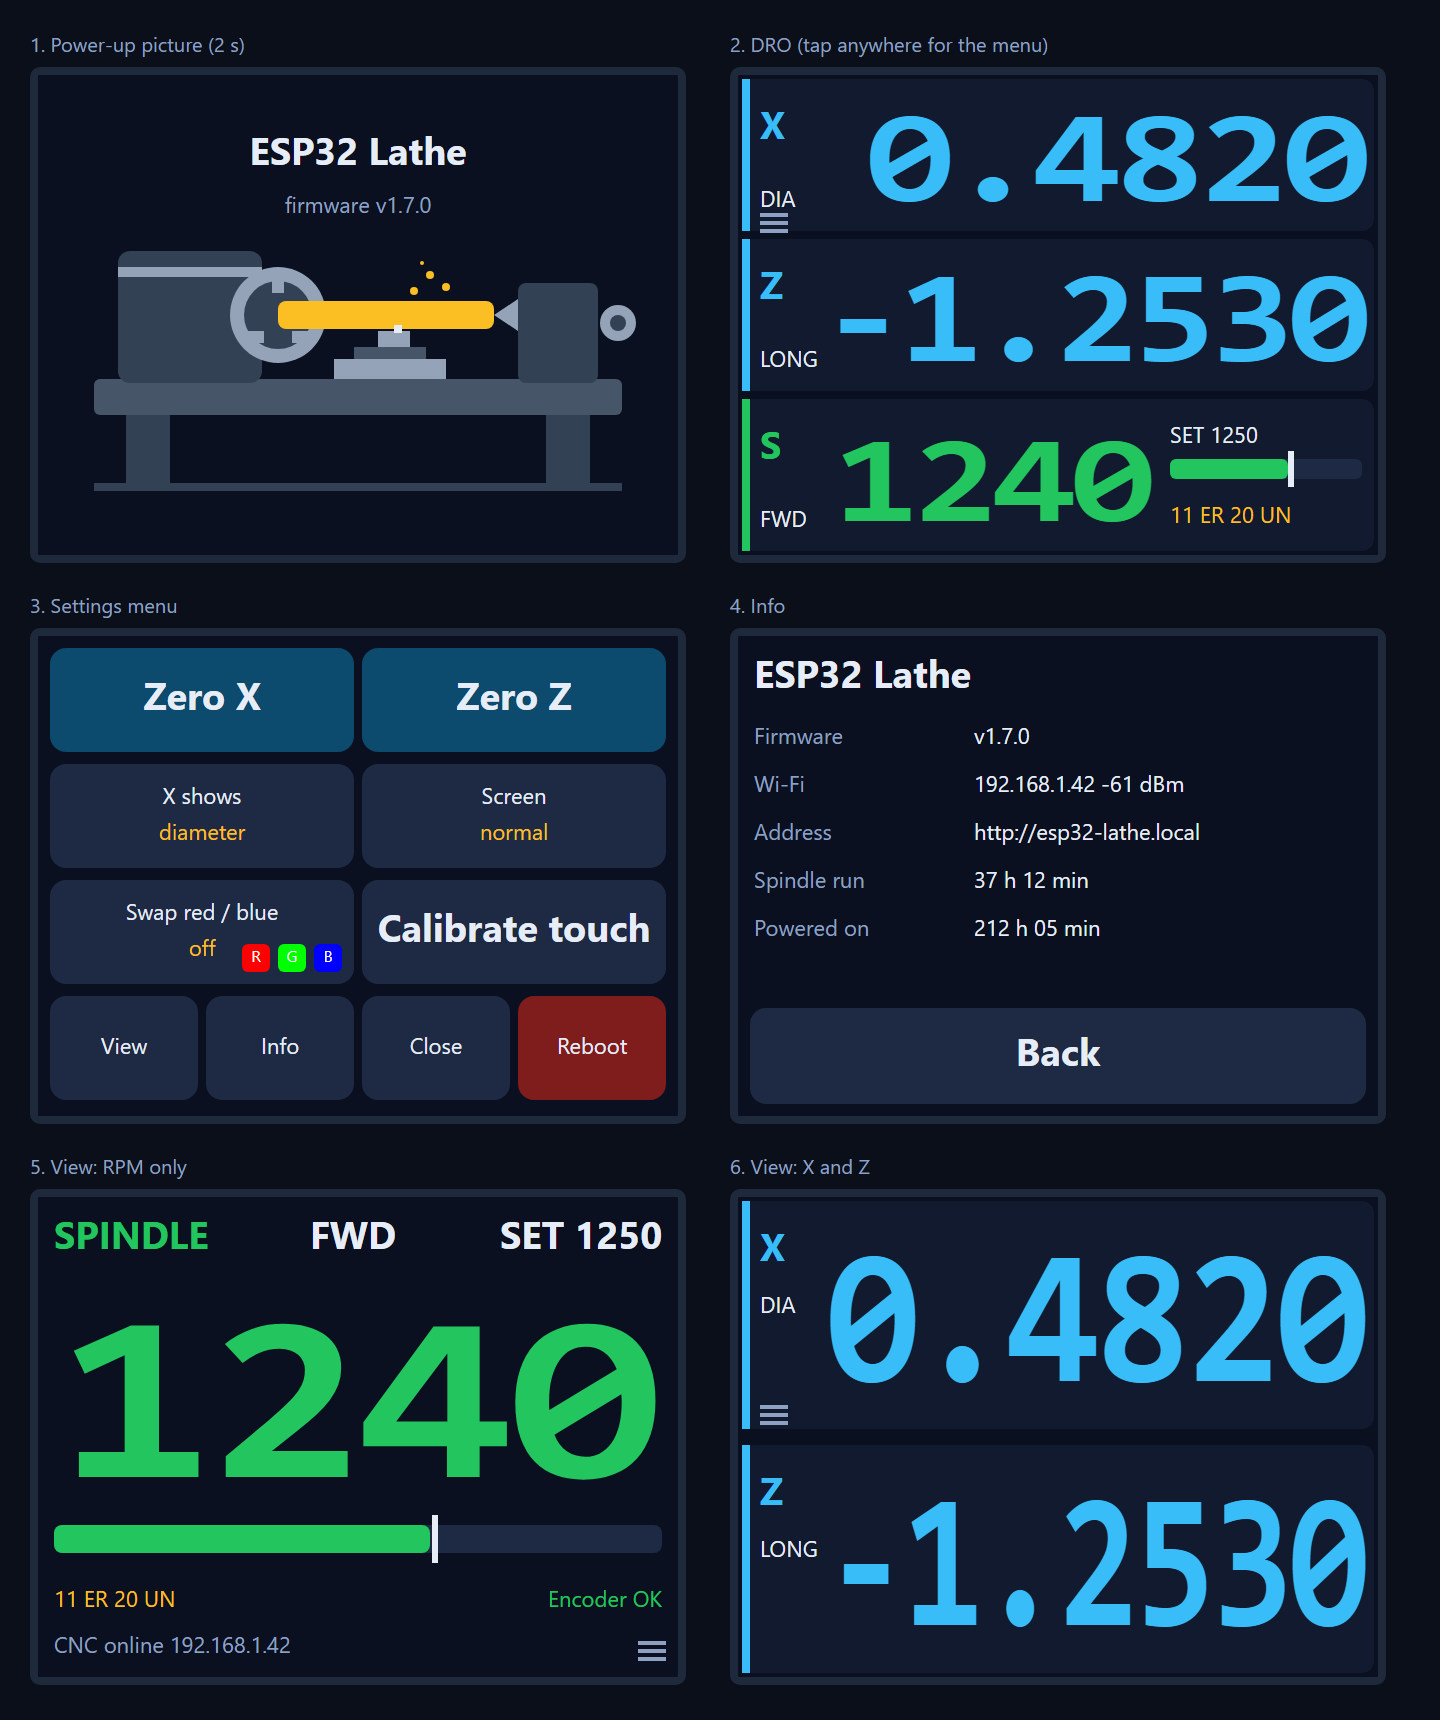
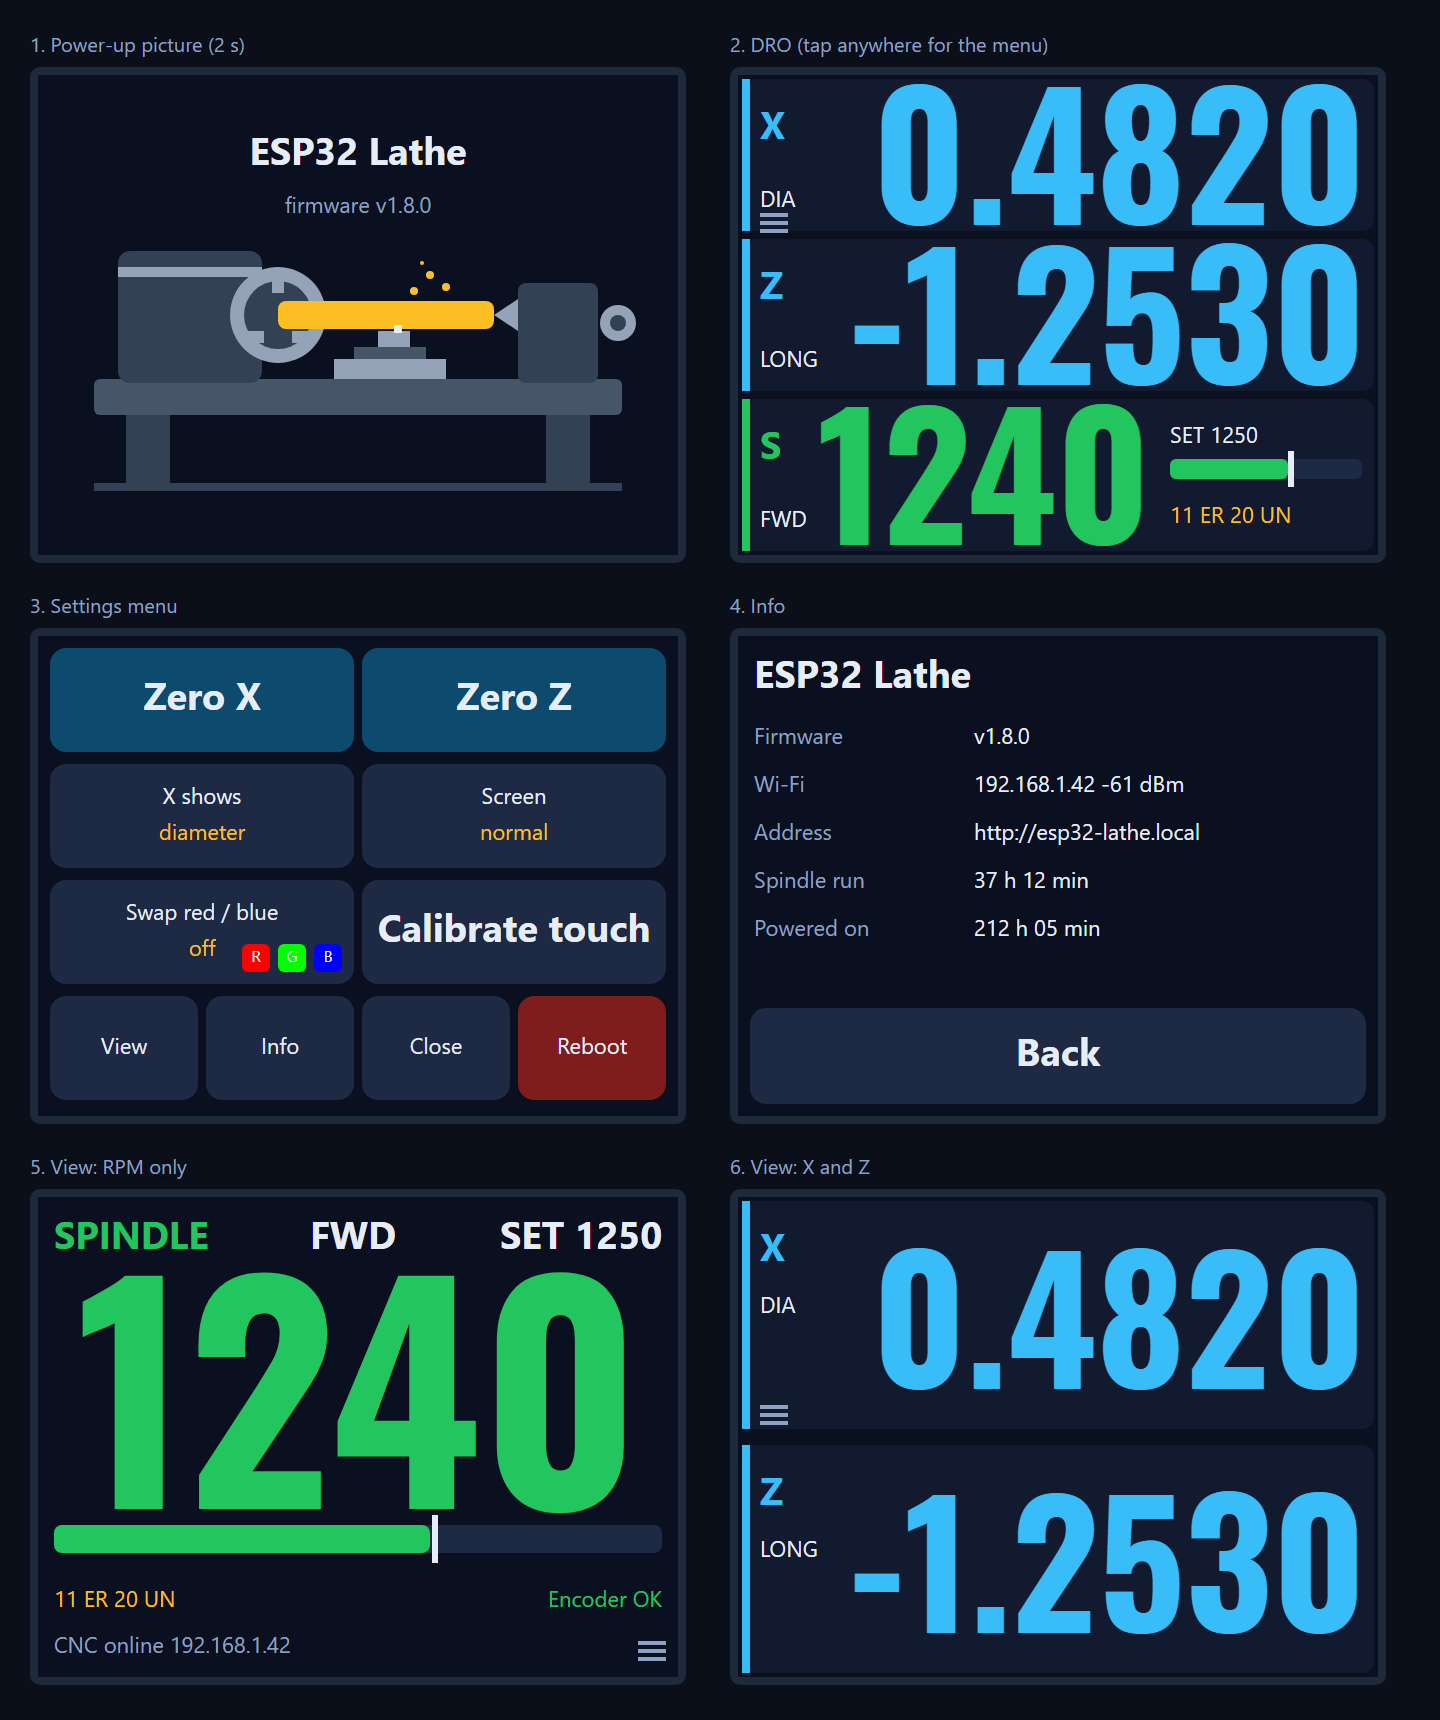
Firmware 1.8.0: anti-aliased Oswald digits on the display

diff --git a/src/main.cpp b/src/main.cpp
@@ -391,12 +391,40 @@ const float DISP_MAX_SCALE = 1.5f;
 // (which flickers a little, but still shows the numbers).
 lgfx::LovyanGFX *g = &frame;
 volatile bool dispSaveReq = false;     // the on-screen menu changed a setting: loop() writes it to flash
-void drawBigNumber(const char *txt, int right, int y, int maxW, uint32_t col) {
+
+// Smooth digits. The built-in seven-segment font scaled up 1.5x looked blocky, so the numbers now use
+// anti-aliased 0-9 . - glyphs from Oswald Bold (SIL Open Font License, see fonts/OFL.txt) in three sizes:
+// 120, 70 and 57 px digits. tools/make_vlw.py makes the fonts/*.vlw files from the TTF; platformio.ini's
+// board_build.embed_files links them into the firmware, and they are read straight from flash.
+extern const uint8_t vlw_big_start[] asm("_binary_fonts_d_big_vlw_start"), vlw_big_end[] asm("_binary_fonts_d_big_vlw_end");
+extern const uint8_t vlw_mid_start[] asm("_binary_fonts_d_mid_vlw_start"), vlw_mid_end[] asm("_binary_fonts_d_mid_vlw_end");
+extern const uint8_t vlw_small_start[] asm("_binary_fonts_d_small_vlw_start"), vlw_small_end[] asm("_binary_fonts_d_small_vlw_end");
+lgfx::VLWfont digitFont[3];
+lgfx::PointerWrapper digitData[3];
+bool digitFontsOk = false;
+void loadDigitFonts() {
+  const uint8_t *s[3] = {vlw_big_start, vlw_mid_start, vlw_small_start}, *e[3] = {vlw_big_end, vlw_mid_end, vlw_small_end};
+  digitFontsOk = true;
+  for (int i = 0; i < 3; i++) { digitData[i].set(s[i], e[i] - s[i]); if (!digitFont[i].loadFont(&digitData[i])) digitFontsOk = false; }
+  Serial.printf("display: digit fonts %s\n", digitFontsOk ? "loaded" : "failed, using the bitmap font");
+}
+// Draws a number as large as fits: the biggest smooth font no taller than maxH whose width fits maxW. The
+// background colour is needed for the anti-aliased edges. Falls back to the scaled bitmap font if the smooth
+// fonts did not load.
+void drawNumber(const char *txt, int x, int y, int maxW, int maxH, textdatum_t datum, uint32_t col, uint32_t bg) {
+  g->setTextDatum(datum);
+  if (digitFontsOk) {
+    int pick = 2;
+    for (int i = 0; i < 3; i++) { g->setFont(&digitFont[i]); if (g->fontHeight() <= maxH && g->textWidth(txt) <= maxW) { pick = i; break; } }
+    g->setFont(&digitFont[pick]); g->setTextColor(col, bg); g->drawString(txt, x, y); g->setTextColor(col);
+    return;
+  }
   g->setFont(&fonts::Font7); g->setTextSize(1);
-  float s = min(DISP_MAX_SCALE, (float)maxW / max(1, (int)g->textWidth(txt)));
-  g->setTextSize(s); g->setTextColor(col); g->setTextDatum(middle_right);
-  g->drawString(txt, right, y + DISP_ROW_H / 2);
-  g->setTextSize(1);
+  float sc = min((float)maxH / 48.0f, (float)maxW / max(1, (int)g->textWidth(txt)));
+  g->setTextSize(sc); g->setTextColor(col); g->drawString(txt, x, y); g->setTextSize(1);
+}
+void drawBigNumber(const char *txt, int right, int y, int maxW, uint32_t col) {
+  drawNumber(txt, right, y + DISP_ROW_H / 2, maxW, DISP_ROW_H - 8, middle_right, col, 0x111a2e);
 }
 // The sub label (DIA, LONG, FWD) is near white: it stays readable whatever the panel's colour order.
 void drawRowLabel(int y, const char *name, const char *sub, uint32_t col) {
@@ -545,9 +573,7 @@ void drawInfo(const DispSnap &s) {
 // ---------------- single-value views ----------------
 // A number in the seven-segment font, as large as maxW and maxScale allow, centred on (cx, cy).
 void bigCentered(const char *txt, int cx, int cy, int maxW, float maxScale, uint32_t col) {
-  g->setFont(&fonts::Font7); g->setTextSize(1);
-  float sc = min(maxScale, (float)maxW / max(1, (int)g->textWidth(txt)));
-  g->setTextSize(sc); g->setTextColor(col); g->setTextDatum(middle_center); g->drawString(txt, cx, cy); g->setTextSize(1);
+  drawNumber(txt, cx, cy, maxW, (int)(48 * maxScale), middle_center, col, 0x0a1020);
 }
 void menuMark(int x, int y) { for (int i = 0; i < 3; i++) g->fillRect(x, y + 4 * i, 14, 2, 0x8fa1c2); }
 const char *toolText(const DispSnap &s) { const char *t = strstr(s.tool, " + "); return t ? t + 3 : (s.tool[0] ? s.tool : "No tool"); }
@@ -602,9 +628,7 @@ void drawXZView(const DispSnap &s) {
     g->setTextDatum(top_left); g->setFont(&fonts::Font4); g->setTextColor(0x38bdf8); g->drawString(i ? "Z" : "X", 11, y + 12);
     g->setFont(&fonts::Font2); g->setTextColor(0xe6edf7); g->drawString(i ? "LONG" : (s.xDia ? "DIA" : "RAD"), 11, y + 44);
     char b[16]; snprintf(b, sizeof b, "%.4f", i ? s.z : s.x);
-    g->setFont(&fonts::Font7); g->setTextSize(1);
-    float sc = min(2.2f, 270.0f / max(1, (int)g->textWidth(b)));
-    g->setTextSize(sc); g->setTextColor(0x38bdf8); g->setTextDatum(middle_right); g->drawString(b, 314, y + rh / 2); g->setTextSize(1);
+    drawNumber(b, 314, y + rh / 2, 270, rh - 12, middle_right, 0x38bdf8, 0x111a2e);
   }
   menuMark(11, rh - 14);
 }
@@ -672,6 +696,7 @@ void drawSplash() {
 void displayTask(void *) {
   lcd.init(); bool flip = S.dispFlip; lcd.setRotation(flip ? 3 : 1);
   if (S.dispSwapRb) lcd.setColorSwap(true);
+  loadDigitFonts();
   drawSplash();
   vTaskDelay(pdMS_TO_TICKS(2000));
   // Frame buffer: 16-bit in PSRAM, else 8-bit in internal RAM, else none (draw straight to the panel).

diff --git a/tools/make_vlw.py b/tools/make_vlw.py
@@ -1,0 +1,82 @@
+"""Make anti-aliased digit fonts (0-9 . -) in VLW format for LovyanGFX, from a TrueType font.
+
+VLW layout (as LovyanGFX's VLWfont::loadFont reads it), all 32-bit big-endian:
+  header: glyph count, version, size, unused, ascent, descent
+  per glyph: unicode, height, width, x advance, dY (baseline to glyph top), dX, unused
+  then the 8-bit alpha bitmaps, one after another in glyph order.
+The font-level ascent is set to the digit height and descent to what hangs below the baseline, so a
+middle text datum centres the digits exactly.
+
+Usage: make_vlw.py <pylib> <font.ttf> <out dir> <preview.png>
+"""
+import sys, struct, os
+sys.path.insert(0, sys.argv[1])
+from PIL import Image, ImageDraw, ImageFont
+
+TTF, OUT, PREVIEW = sys.argv[2], sys.argv[3], sys.argv[4]
+CHARS = "0123456789.-"
+
+def measure(em):
+    f = ImageFont.truetype(TTF, em)
+    asc, desc = f.getmetrics()
+    g = {}
+    for ch in CHARS:
+        l, t, r, b = f.getbbox(ch)
+        g[ch] = dict(l=l, t=t, r=r, b=b, adv=f.getlength(ch))
+    digit_h = max(asc - g[c]['t'] for c in "0123456789")
+    return f, asc, g, digit_h
+
+def width(g, s): return sum(g[c]['adv'] for c in s)
+
+def fit(max_h, limits):
+    """Largest em whose digits are <= max_h tall and whose test strings fit their widths."""
+    best = None
+    for em in range(20, 260):
+        f, asc, g, dh = measure(em)
+        if dh > max_h or any(width(g, s) > w for s, w in limits): break
+        best = em
+    return best
+
+def write_vlw(em, path):
+    f, asc, g, dh = measure(em)
+    glyphs = []
+    for ch in CHARS:
+        m = g[ch]
+        w, h = m['r'] - m['l'], m['b'] - m['t']
+        im = Image.new('L', (w, h), 0)
+        ImageDraw.Draw(im).text((-m['l'], -m['t']), ch, font=f, fill=255)
+        glyphs.append((ord(ch), h, w, round(m['adv']), asc - m['t'], m['l'], im.tobytes()))
+    font_asc = max(gl[4] for gl in glyphs)
+    font_desc = max(0, max(gl[1] - gl[4] for gl in glyphs))
+    out = struct.pack('>6I', len(glyphs), 11, font_asc + font_desc, 0, font_asc, font_desc)
+    for u, h, w, adv, dy, dx, _ in glyphs:
+        assert w < 256 and adv < 256 and -128 <= dx < 128, (u, w, adv, dx)
+        out += struct.pack('>7I', u, h, w, adv, dy & 0xffffffff, dx & 0xffffffff, 0)
+    for gl in glyphs: out += gl[6]
+    open(path, 'wb').write(out)
+    return f, g, dh, len(out)
+
+os.makedirs(OUT, exist_ok=True)
+sizes = {
+    'big':   fit(120, [("8888", 300)]),                      # RPM only: four digits across the screen
+    'mid':   fit(72,  [("-8.8888", 270)]),                    # the 80 px rows, and the single-axis views
+    'small': fit(58,  [("-88.8888", 270)]),                   # fallback when a value has two digits before the point
+}
+print('em sizes', sizes)
+fonts = {}
+for name, em in sizes.items():
+    f, g, dh, n = write_vlw(em, os.path.join(OUT, 'd_%s.vlw' % name))
+    fonts[name] = (f, g, dh)
+    print('%-5s em %3d  digit height %3d px  "0.4820" %3d px  "-1.2530" %3d px  "1240" %3d px  file %d bytes' %
+          (name, em, dh, width(g, "0.4820"), width(g, "-1.2530"), width(g, "1240"), n))
+
+# Preview: what the three sizes look like on the display's dark background
+pv = Image.new('RGB', (660, 420), (10, 16, 32))
+d = ImageDraw.Draw(pv)
+y = 10
+for name, s in (('big', '1240'), ('mid', '0.4820'), ('mid', '-1.2530'), ('small', '-12.3456')):
+    f, g, dh = fonts[name]
+    d.text((20, y), s, font=f, fill=(56, 189, 248) if name != 'big' else (34, 197, 94))
+    y += int(f.size * 1.1)
+pv.save(PREVIEW)
+print('preview', PREVIEW)

diff --git a/HANDOFF.md b/HANDOFF.md
@@ -3,7 +3,8 @@
 Read `CLAUDE.md` for the working rules, `README.md` for what the system does, `CHANGELOG.md` for every version. This file is the context a new session would otherwise lack: what was decided recently, why, and what is next.
 
 ## Current versions
-- Firmware **1.7.0** (`platformio.ini`), web page **1.21.0** (`data/index.html`, `FW_MIN` 1.4.0), interface board **rev F** (`hardware/make_pcb.py`).
+- Firmware **1.8.0** (`platformio.ini`), web page **1.21.0** (`data/index.html`, `FW_MIN` 1.4.0), interface board **rev F** (`hardware/make_pcb.py`).
+- Display 1.8.0: anti-aliased digits (Oswald Bold, OFL) as VLW fonts in `fonts/`, embedded with `board_build.embed_files`, drawn by `drawNumber()` which picks the largest size that fits. `tools/make_vlw.py <pylib> <ttf> <out dir> <preview.png>` regenerates them (needs Pillow). The user found the scaled bitmap digits pixelated (10 November 2026). Not yet seen on the real panel.
 - **Interface change (10 November 2026):** the user bought 4-channel BSS138 level shifter modules and chose them over milling the board. Help, README and the build guide now describe LS1 (spindle A/B/Z taps, HV = 12 V from the encoder supply, shared with the G540 inputs which pull to 12 V), LS2 (X/Z encoders, HV = 12 V), LS3 (charge pump, HV = 5 V because DB25 pin 16 is a 5 V output), plus a 1-channel PC817 module for the isolated spindle control (with the 4.7 kΩ / 10 µF filter still loose). No firmware change was needed: spindle direction is polarity-independent, Z is unused, the charge pump is timed. The milled board stays in the repo and Help as "Milled board (alt.)"; `make_pcb.py` and its rev F files are unchanged.
 - Display 1.7.0: View button (Everything / RPM only / X only / Z only / X and Z), saved as `dview`. The user is building the spindle side first and wants RPM only until the axis encoders exist.
 - `docs/BUILD_GUIDE.md` (added 9 November 2026) is the illustrated build guide for GitHub; its PNGs in `docs/img/` are screenshots of the dashboard and Help panes (taken with headless Edge from `data/index.html` running on simulated data), renders of the board SVGs, and SVG mock-ups of the four display screens drawn from the firmware's coordinates. Regenerate them when the page or display layout changes.

diff --git a/README.md b/README.md
@@ -57,4 +57,6 @@ Spindle encoder PPR 100 · X and Z encoder P/R 600 · X and Z travel per encoder
 - `data/index.html` dashboard (open it directly in a browser to see it run on simulated data)
 - `data/hw/` board pictures and CAM files, served by the ESP32 and linked from Help (written by `make_pcb.py`; don't edit by hand)
 - `hardware/make_pcb.py` draws the two-sided interface board (no plated holes; vias are wire pins), checks both sides and writes the CAM files next to it. Every name carries the board revision (`REV` in the script, listed in `CHANGELOG.md`), for example rev F: `board_revF_bottom.dxf` (side 1, mirrored) and `board_revF_top.dxf` (side 2), the same two as true-size `.svg` for CAM that imports SVG, `board_revF_parts.dxf` (top view with part outlines, for checking), `_preview.svg`, `_gerber.zip` (Gerber and Excellon) and `_report.txt`. Each mill-file layer is one machining operation: ISO_CENTER (cutter centre lines for a 0.5 mm cutter, no offset), CLEAR_POCKET (pocket out), COPPER_REF (reference only), DRILL_0P8 / DRILL_1P3 / ALIGN_3P0, SLOT and OUTLINE. The script also sets `BOARD_REV` in `data/index.html`, so Help links to the new files. It also copies them all into `data/hw/`, so rebuild the filesystem image afterwards. Edit the placement in the script and rerun it (`pip install shapely`, then `python make_pcb.py`) to change the board.
+- `fonts/` anti-aliased digit fonts for the display (Oswald Bold, SIL Open Font License in `fonts/OFL.txt`) as VLW files, linked into the firmware by `board_build.embed_files`
+- `tools/make_vlw.py` regenerates those fonts from a TTF (needs Pillow): `python tools/make_vlw.py <folder with Pillow> Oswald-Bold.ttf fonts preview.png`
 - `platformio.ini`

diff --git a/CHANGELOG.md b/CHANGELOG.md
@@ -13,6 +13,10 @@ Change either part, then bump its version and add an entry here.
 
 ## Firmware
 
+### 1.8.0
+- Display: smooth digits. The numbers were the library's 48 px seven-segment bitmap font scaled up 1.5×, which made every pixel a block. They are now anti-aliased glyphs (0–9, point, minus) from **Oswald Bold** (SIL Open Font License, `fonts/OFL.txt`) in three sizes: 120 px digits for the RPM-only view, 70 px for the DRO rows and the single-axis views, 57 px when a value has two digits before the point. Each number uses the largest size that fits its space, so nothing is ever scaled.
+- The fonts are `fonts/d_big.vlw`, `d_mid.vlw` and `d_small.vlw` (about 140 KB), linked into the firmware by `board_build.embed_files` and read straight from flash; `tools/make_vlw.py` regenerates them from the TTF. If they ever fail to load, the old bitmap font is used and the serial log says so.
+
 ### 1.7.0
 - Display: a **View** button in the Settings menu chooses what fills the screen: Everything (the three rows), **RPM only**, **X only**, **Z only**, or **X and Z**. The choice is saved. Pick RPM only until the axis encoders are fitted, so the screen does not show two axes at zero.
 - RPM only: the speed in digits up to 120 px tall, with direction, the target, a full-width speed bar with the target marked, the loaded tool or the alarm, encoder state, and a status line with CNC and Wi-Fi. X only and Z only: the axis in the same large digits, with the other axis and the spindle small underneath. X and Z: two tall rows.
